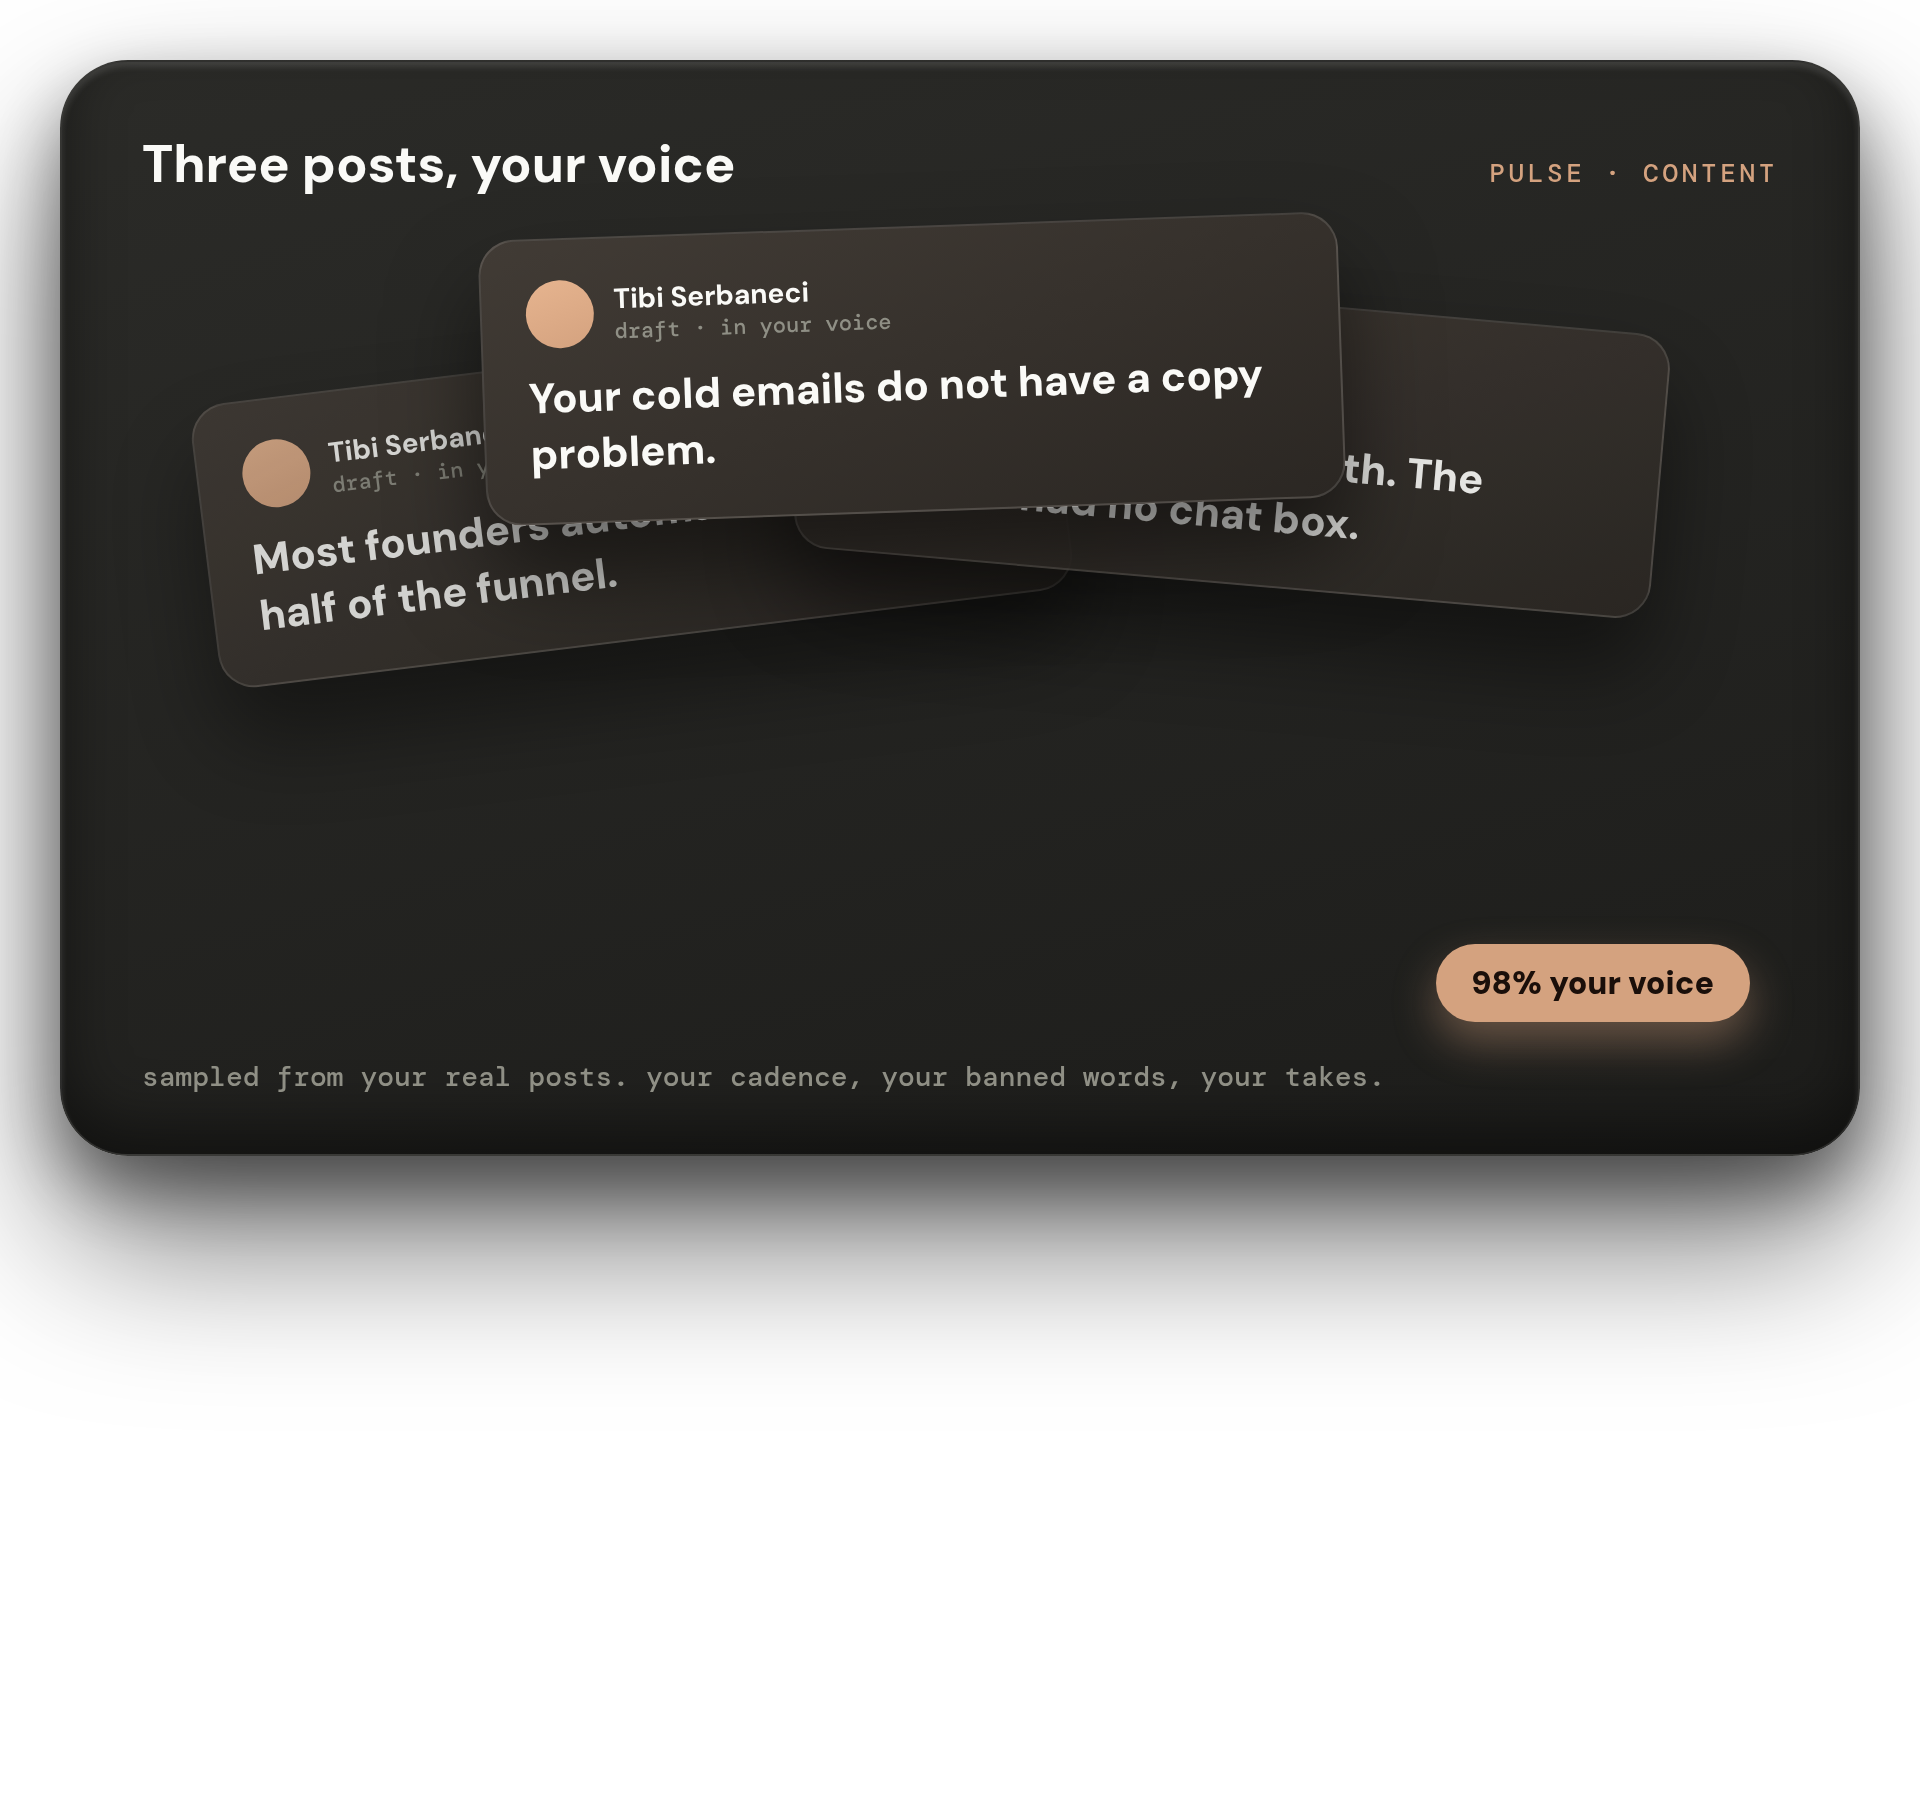
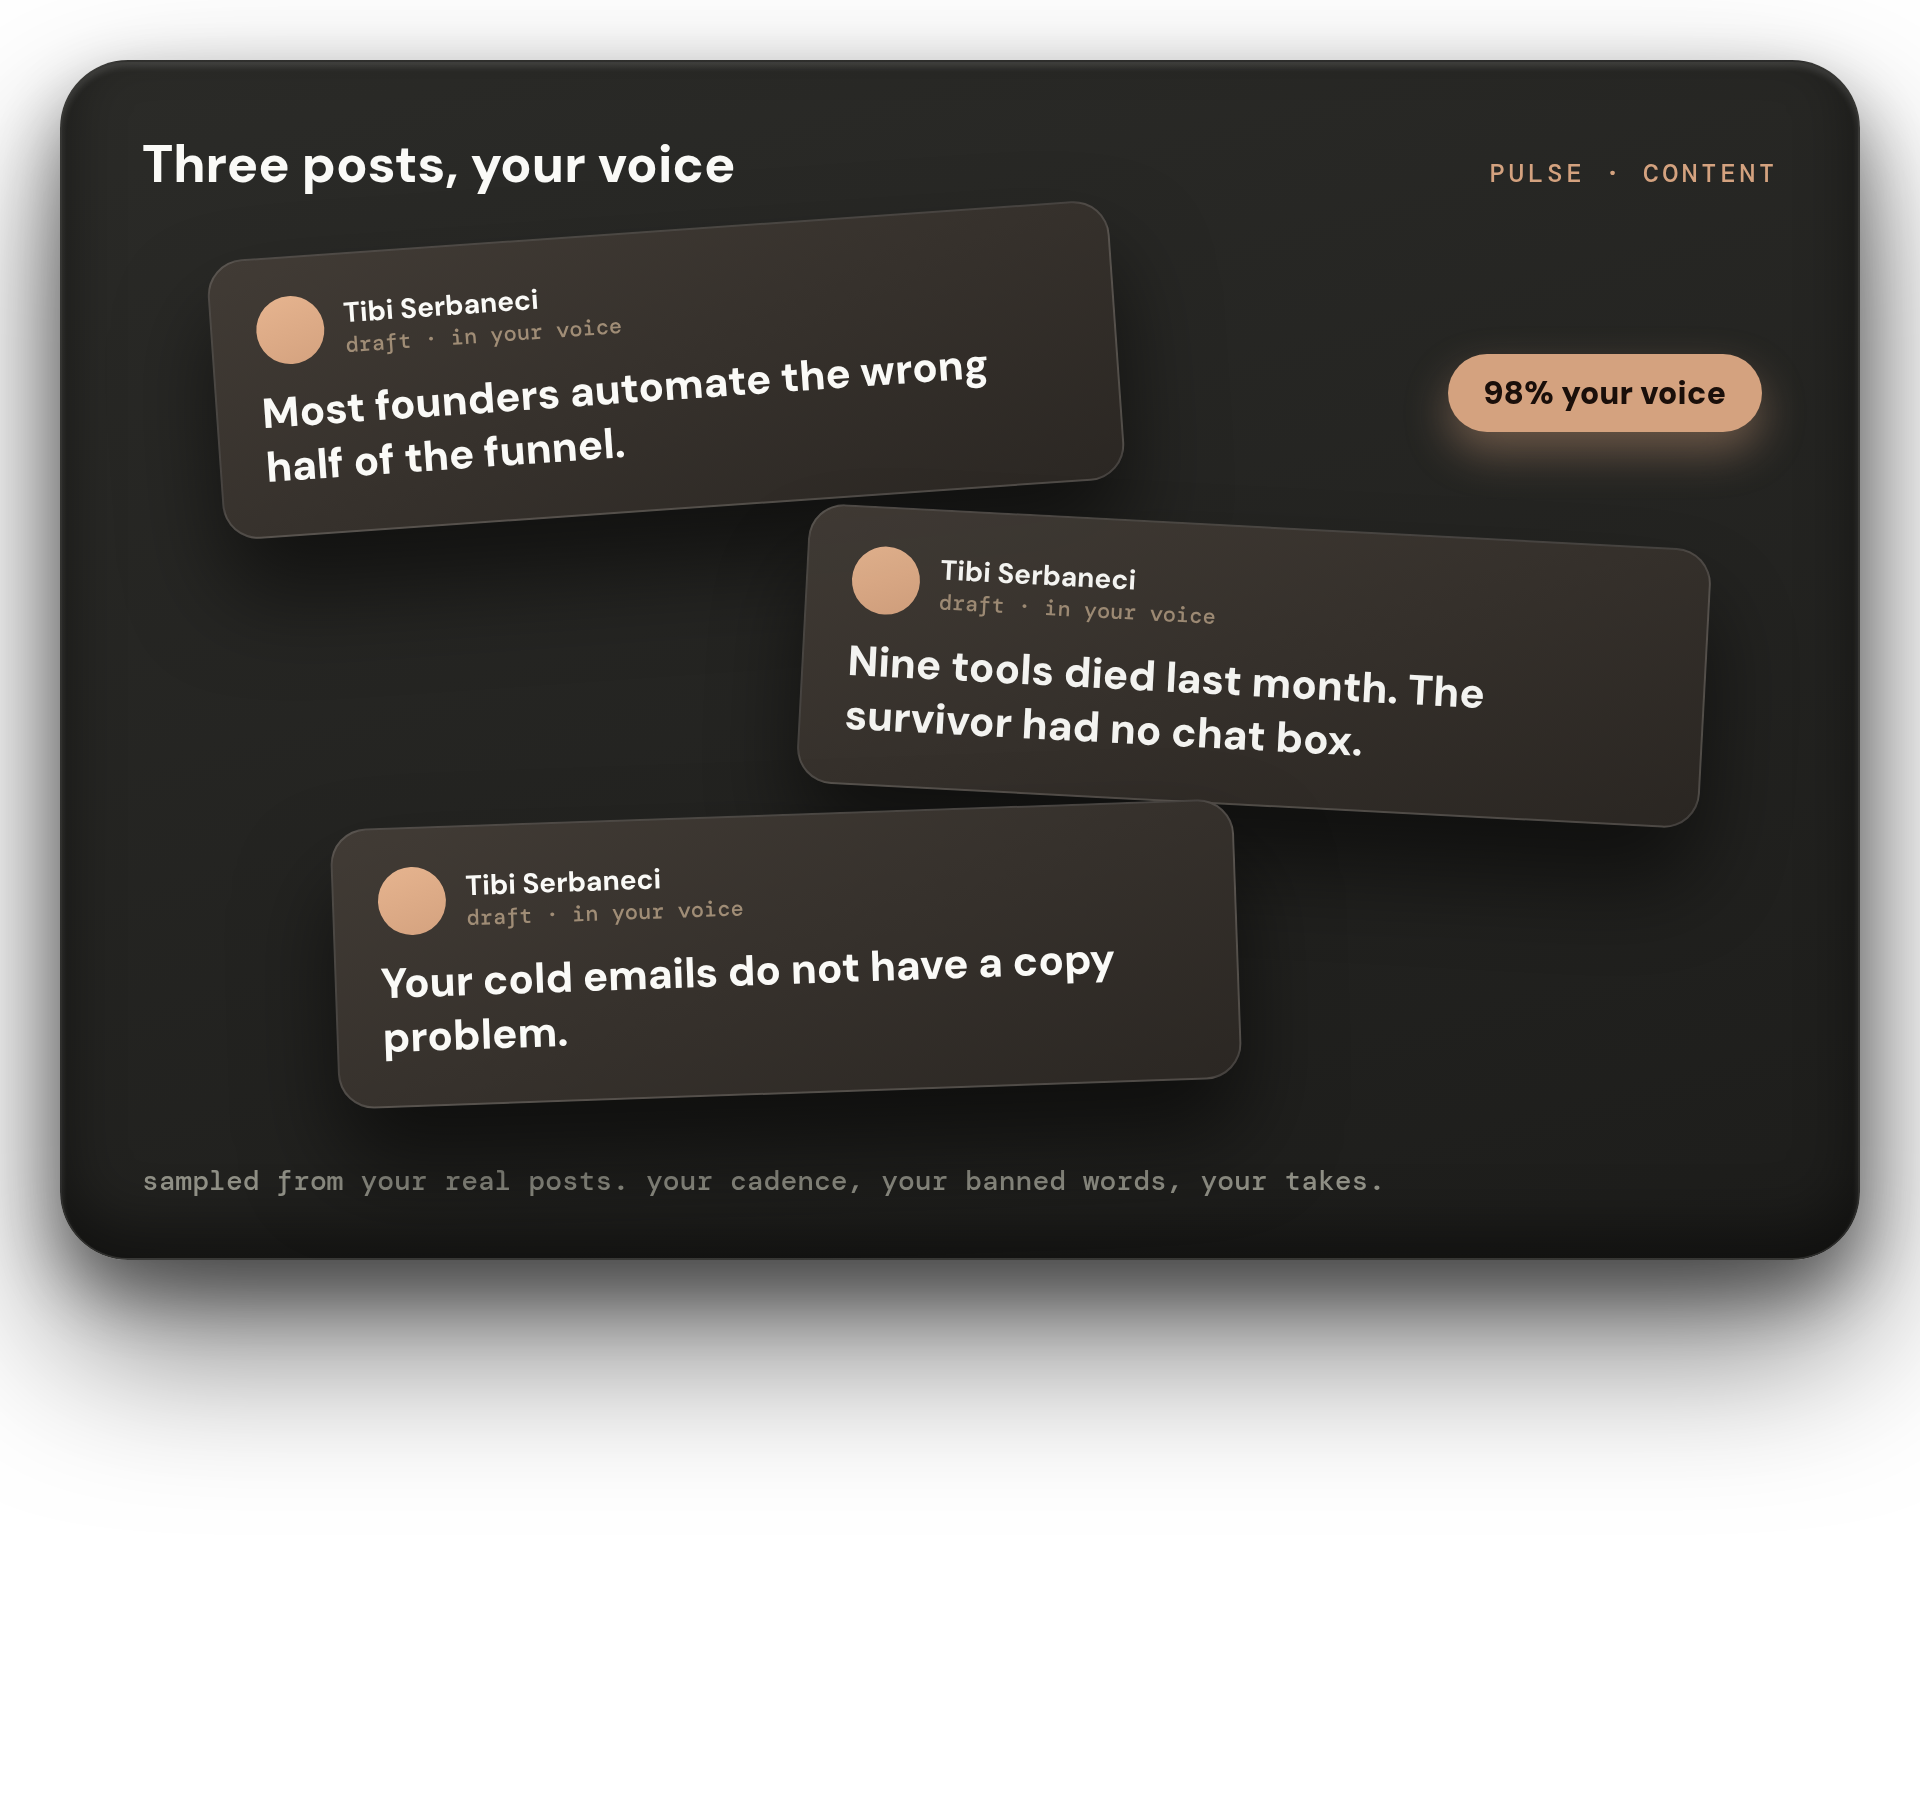
IG Scraped 2 Wave B batch 2 complete decks

Changed region(s): [[0.0, 0.4356, 1.0, 0.8089], [0.0938, 0.1556, 0.9375, 0.4356], [0.75, 0.4978, 0.9375, 0.5911]]

diff --git a/content/_hitl-src/s2src37_t3.py b/content/_hitl-src/s2src37_t3.py
@@ -139,25 +139,25 @@ def cost():
       </div>
       {cap("cents per run, not a retainer. the meter only moves when it produces.","#8a745a")}</div>'''
 
-# 6. CONTENT - fanned stack of 3 draft post cards in your voice + match badge
+# 6. CONTENT - downward cascade of 3 draft post cards in your voice + match badge
 def content():
-    cards=[("-7deg","30px","64px",".82","Most founders automate the wrong half of the funnel."),
-           ("5deg","330px","36px",".9","Nine tools died last month. The survivor had no chat box."),
-           ("-2deg","170px","0px","1","Your cold emails do not have a copy problem.")]
+    cards=[("-4deg","36px","2px","1","Most founders automate the wrong half of the funnel."),
+           ("3deg","330px","150px",".97","Nine tools died last month. The survivor had no chat box."),
+           ("-2deg","96px","294px","1","Your cold emails do not have a copy problem.")]
     stack=""
     for rot,left,top,op,txt in cards:
-        stack+=f'''<div style="position:absolute;left:{left};top:{top};width:430px;transform:rotate({rot});opacity:{op};
-          background:linear-gradient(160deg,#413b35,#2b2723);border:1px solid rgba(255,255,255,.12);border-radius:18px;padding:20px 22px;box-shadow:0 26px 44px rgba(0,0,0,.5)">
-          <div style="display:flex;align-items:center;gap:10px;margin-bottom:12px">
+        stack+=f'''<div style="position:absolute;left:{left};top:{top};width:452px;transform:rotate({rot});opacity:{op};
+          background:linear-gradient(160deg,#413b35,#2b2723);border:1px solid rgba(255,255,255,.13);border-radius:18px;padding:19px 22px;box-shadow:0 28px 46px rgba(0,0,0,.55)">
+          <div style="display:flex;align-items:center;gap:10px;margin-bottom:11px">
             <div style="width:34px;height:34px;border-radius:50%;background:linear-gradient(160deg,#e6b48f,rgb({ACC}))"></div>
             <div><div style="font-family:'DM Sans';font-weight:700;font-size:14px;color:#FAFAF7">Tibi Serbaneci</div>
-            <div style="font-family:'DM Mono';font-size:11px;color:#8f8f85">draft &middot; in your voice</div></div></div>
-          <div style="font-family:'DM Sans';font-weight:800;font-size:21px;color:#FAFAF7;line-height:1.32">{txt}</div>
+            <div style="font-family:'DM Mono';font-size:11px;color:#a08d76">draft &middot; in your voice</div></div></div>
+          <div style="font-family:'DM Sans';font-weight:800;font-size:21px;color:#FAFAF7;line-height:1.3">{txt}</div>
         </div>'''
     return f'''<div style="width:900px;{CARD};padding:34px 40px 30px">
       {htitle("Three posts, your voice","PULSE · CONTENT")}
-      <div style="position:relative;height:400px">{stack}
-        <div style="position:absolute;right:14px;bottom:2px;background:rgb({ACC});color:#1a0f0a;font-family:'DM Sans';font-weight:900;font-size:16px;padding:9px 18px;border-radius:999px;box-shadow:0 10px 22px rgba(212,162,127,.4)">98% your voice</div>
+      <div style="position:relative;height:452px">{stack}
+        <div style="position:absolute;right:8px;top:64px;background:rgb({ACC});color:#1a0f0a;font-family:'DM Sans';font-weight:900;font-size:16px;padding:9px 18px;border-radius:999px;box-shadow:0 10px 22px rgba(212,162,127,.4);z-index:5">98% your voice</div>
       </div>
       {cap("sampled from your real posts. your cadence, your banned words, your takes.")}</div>'''
 
